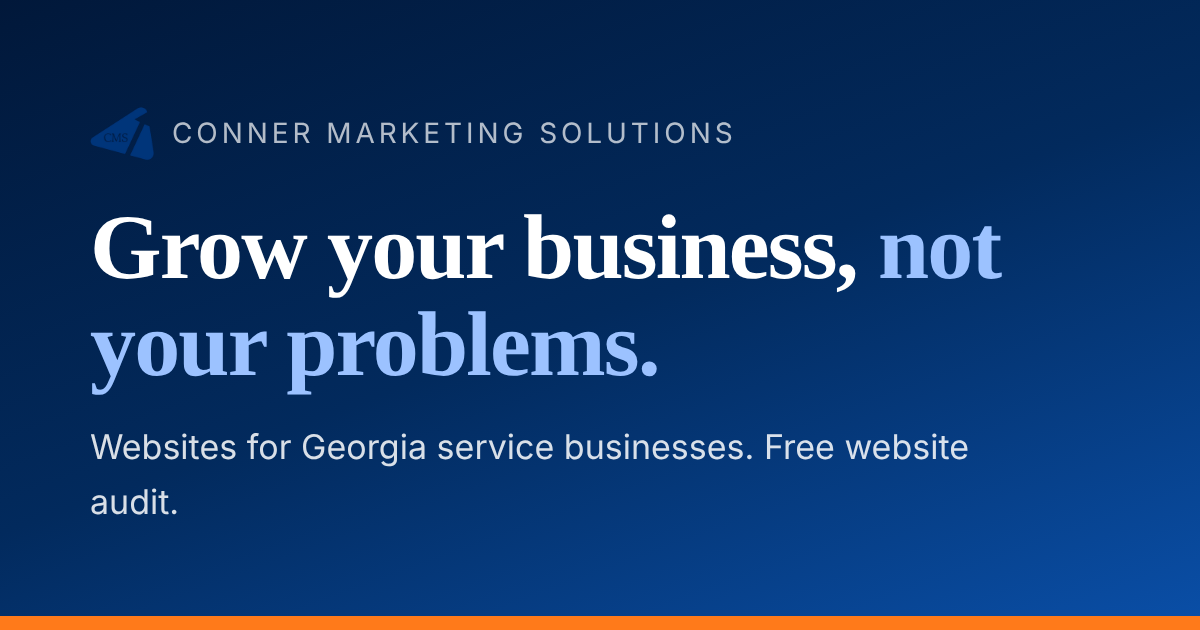
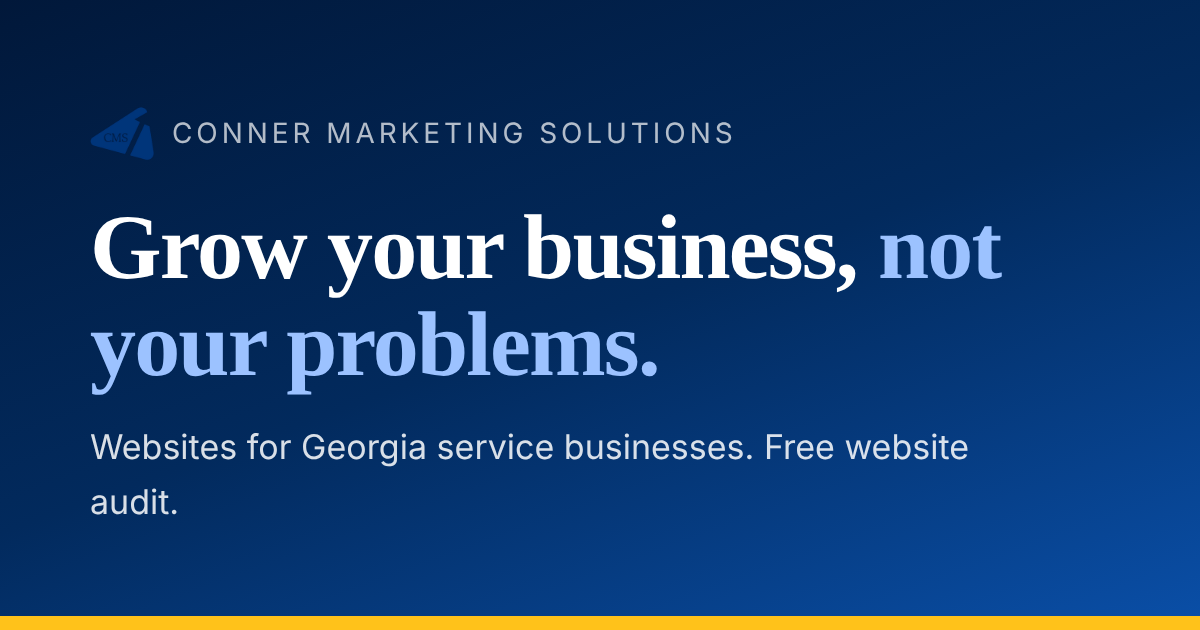
Switch accent to amber and light sections to warm cream
Claude-Session: https://claude.ai/code/session_01XBqEhCGzLVAejLDLoTx3te

Changed region(s): [[0.0, 0.9651, 1.0, 1.0]]

diff --git a/style.css b/style.css
@@ -7,12 +7,12 @@
   --brand: #022a5d;
   --brand-deep: #01183a;
   --brand-mid: #0a4fa8;
-  --brand-tint: #eef3fb;
-  --accent: #ff7a1a;
-  --accent-hover: #ff9140;
+  --brand-tint: #f6f0e4;
+  --accent: #ffc21a;
+  --accent-hover: #ffd24d;
   --ink: #16213a;
   --body: #334155;
-  --line: #d5dfee;
+  --line: #e3d9c4;
   --white: #ffffff;
   --on-dark: rgba(255,255,255,0.82);
   --radius: 10px;
@@ -30,7 +30,8 @@ body { font-family: 'DM Sans', system-ui, sans-serif; background: var(--white); 
 button, input, select, textarea { font: inherit; }
 img { max-width: 100%; height: auto; }
 a { color: var(--brand-mid); }
-:focus-visible { outline: 3px solid var(--accent); outline-offset: 2px; }
+:focus-visible { outline: 3px solid var(--brand-mid); outline-offset: 2px; }
+.on-dark :focus-visible { outline-color: var(--accent); }
 
 .skip { position: absolute; left: 1rem; top: -4rem; z-index: 1000; background: var(--accent); color: var(--brand-deep); padding: 0.7rem 1.1rem; border-radius: var(--radius); font-weight: 600; text-decoration: none; }
 .skip:focus { top: 1rem; }
